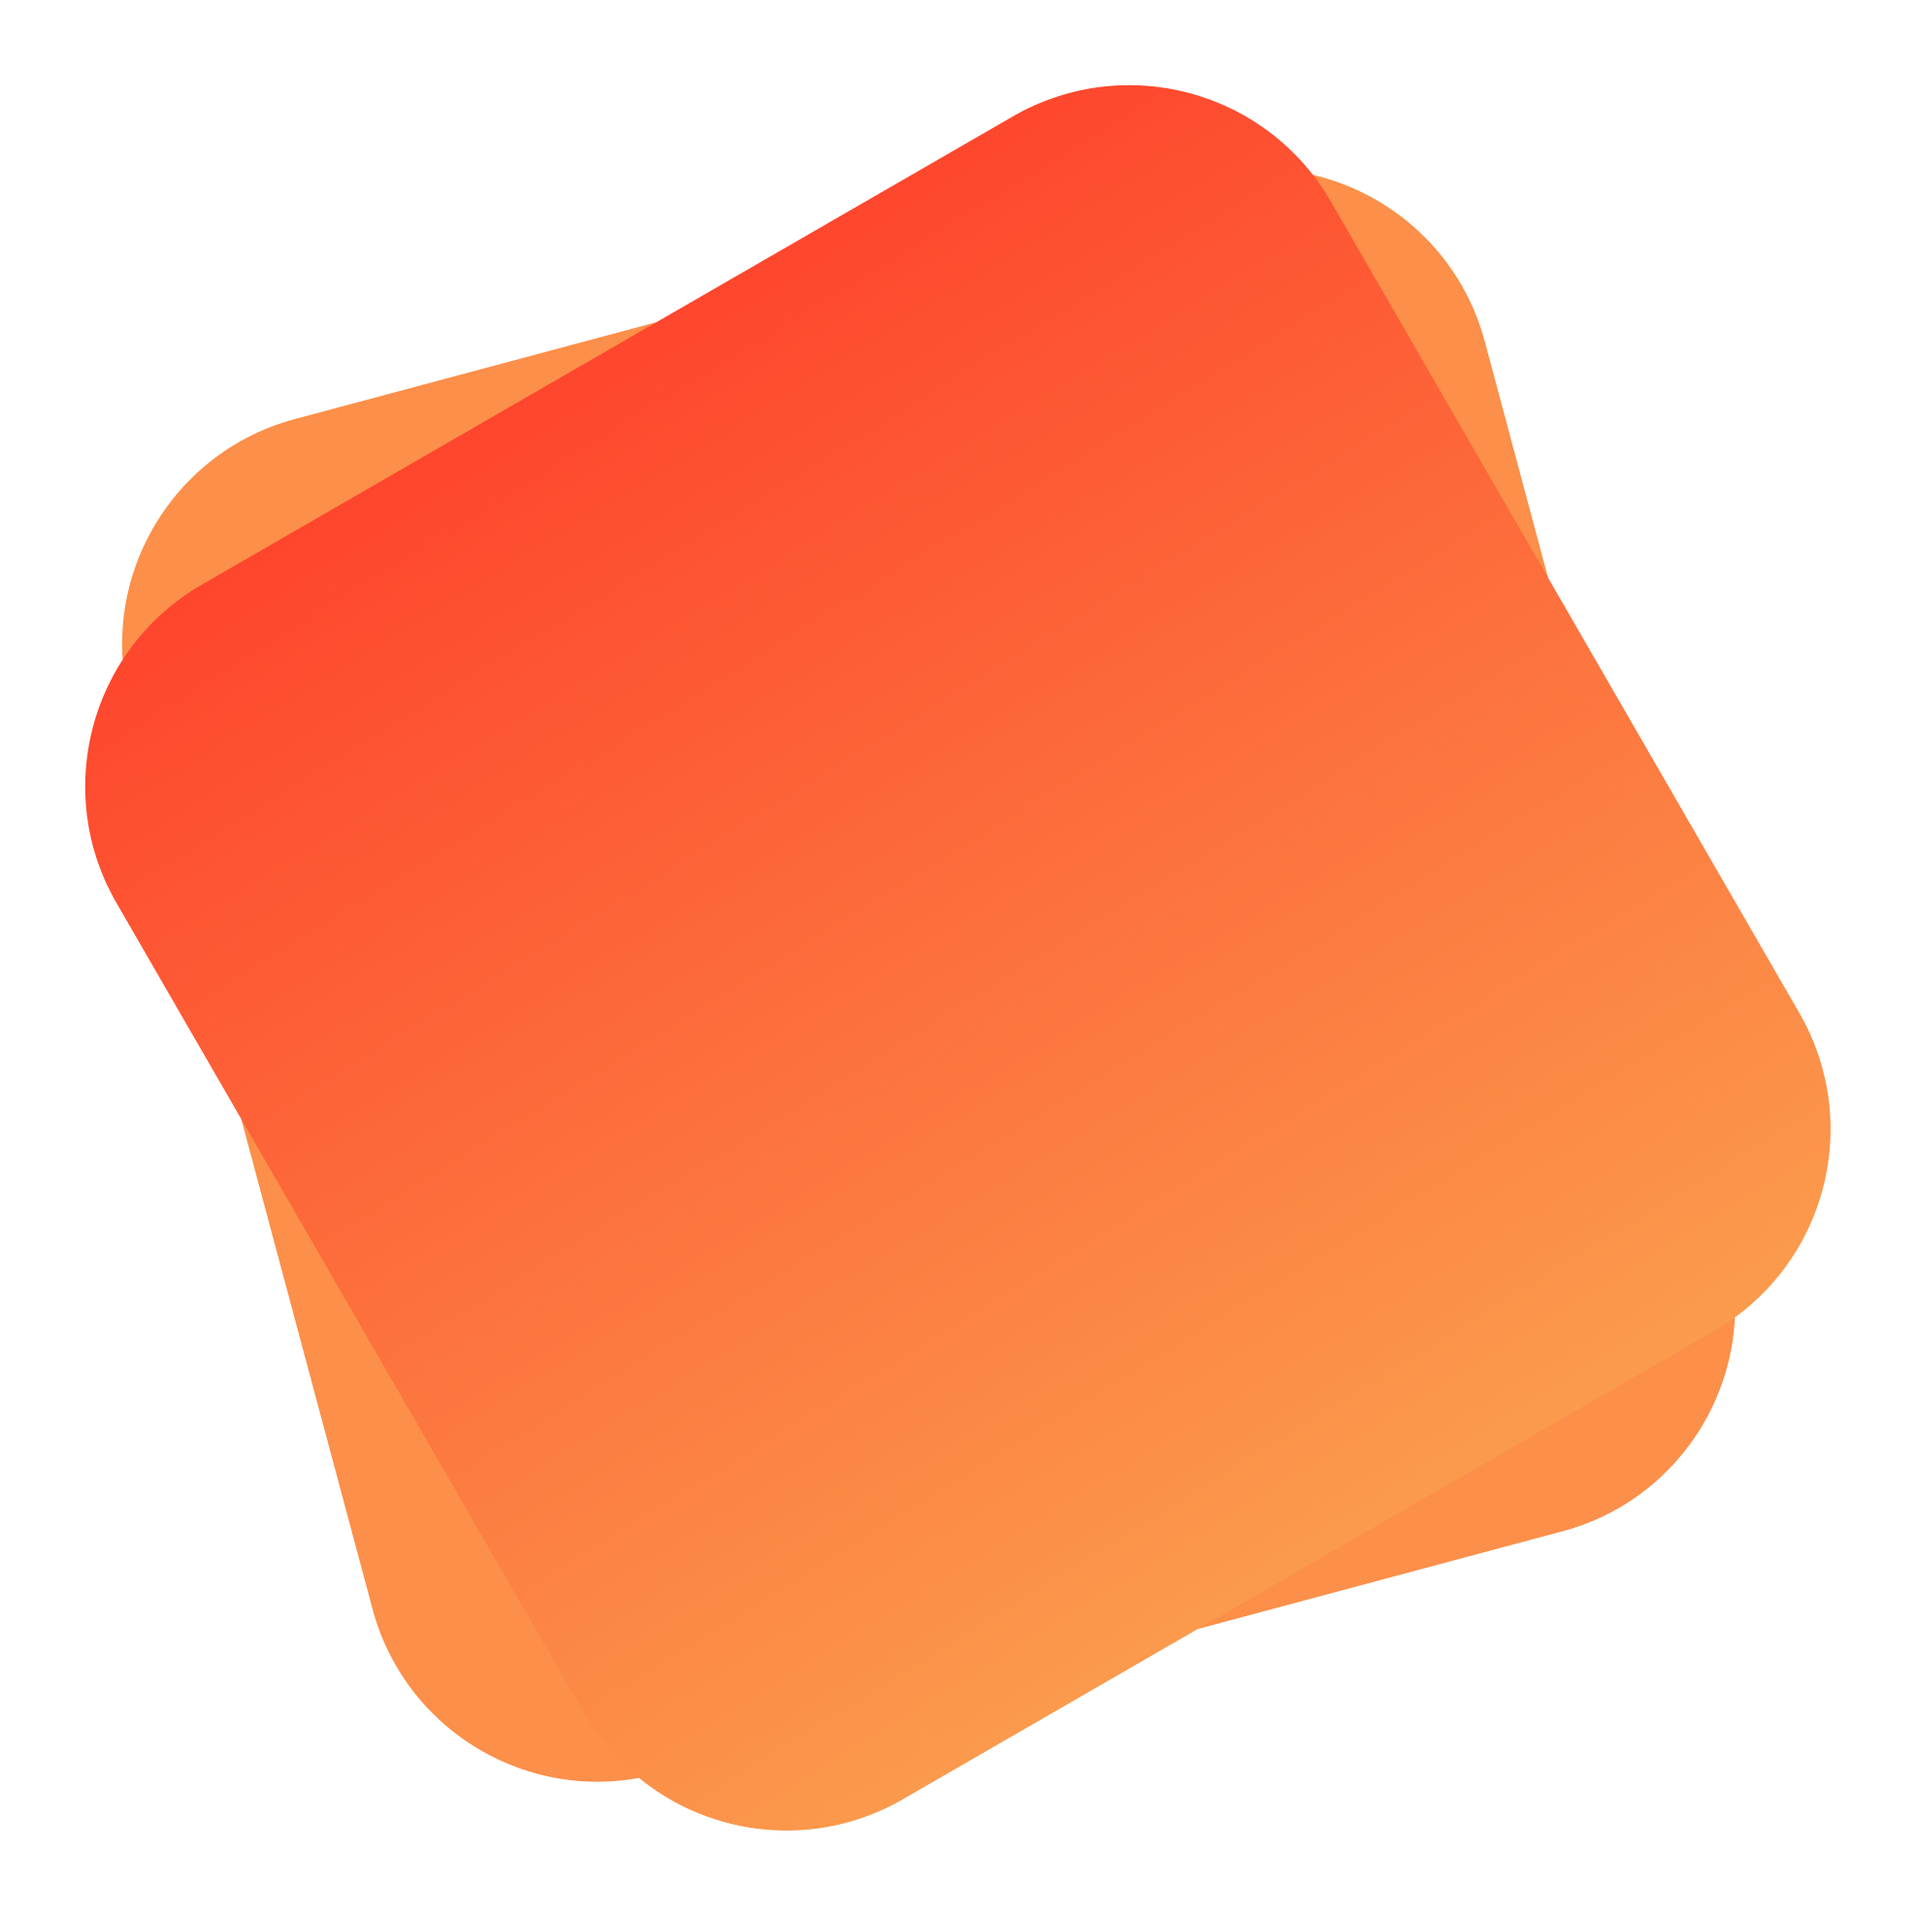
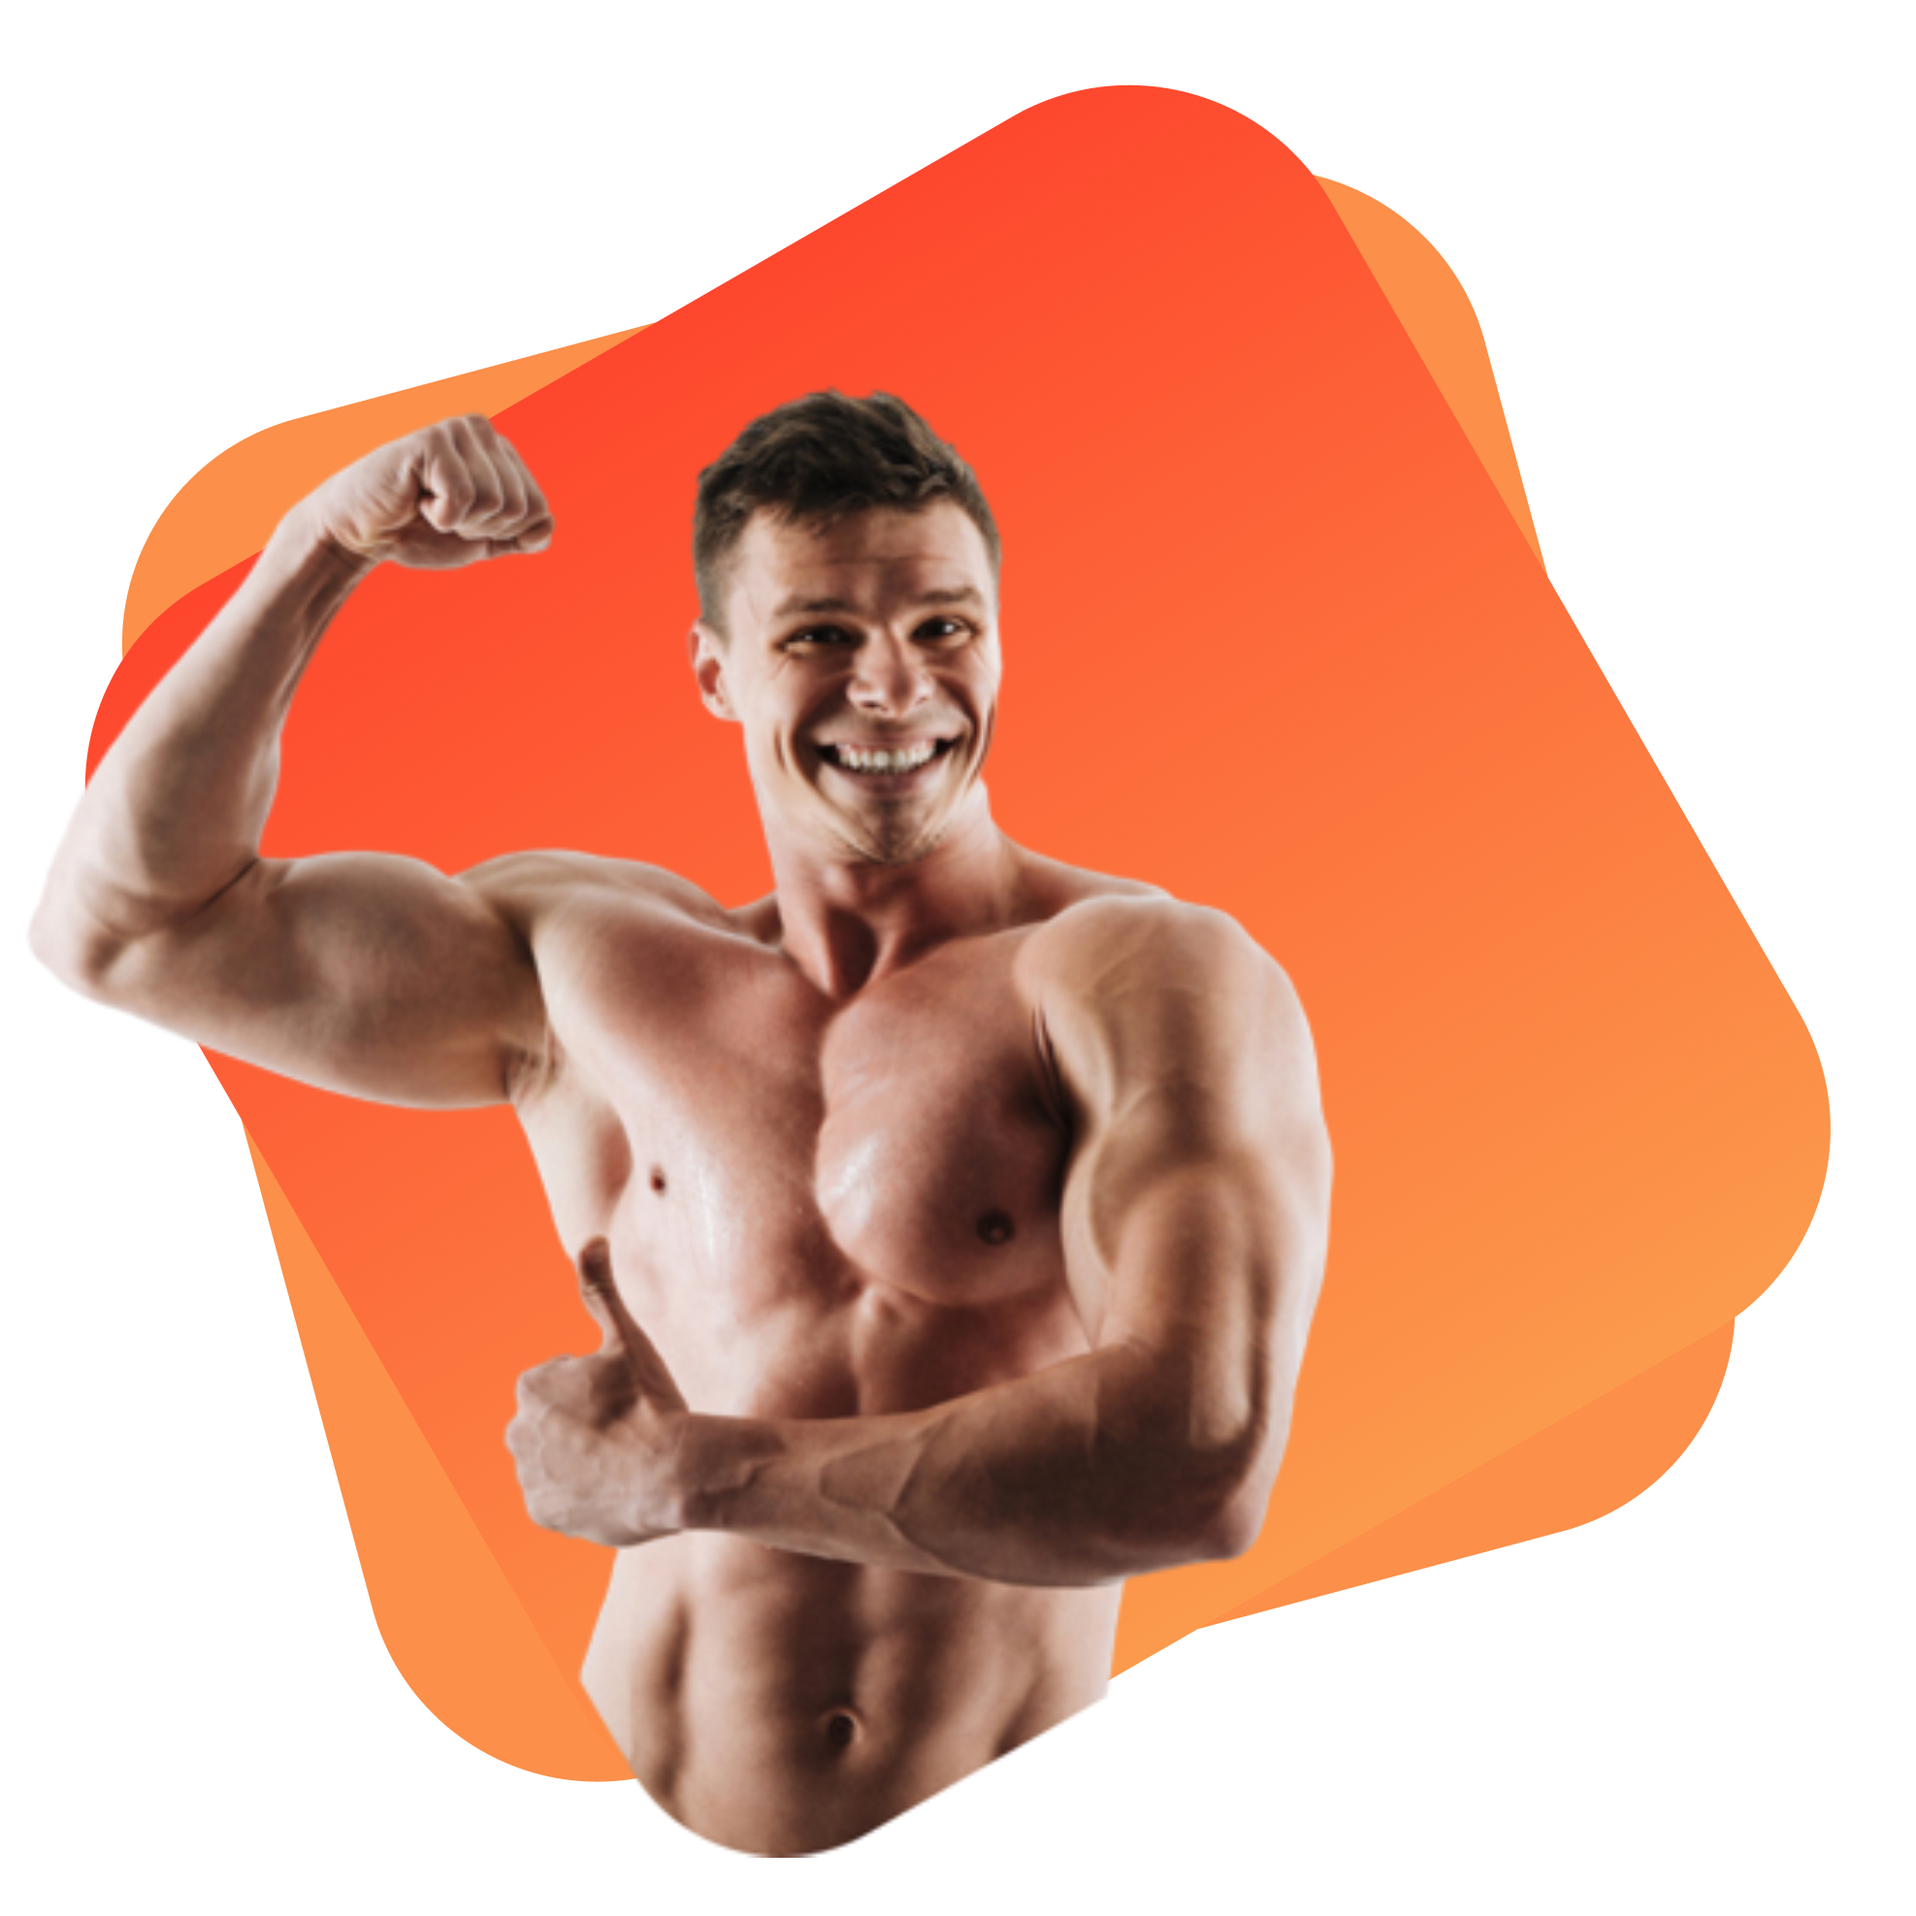
commit 3rd

Changed region(s): [[0.0, 0.1853, 0.7104, 0.9884]]

diff --git a/index.html b/index.html
@@ -13,10 +13,12 @@
 </head>
 
 <body>
-    <H1>Eat Healthy <br>With Stan's Fitness</H1>
+    <H1><span class="Orange-Color">Eat Healthy</span> <br>With Stan's Fitness</H1>
+    <h3>Stan The Body Builder</h3>
     <p>Stan Fitness Assure You With 100% Gurantee of Success .No Unnecessary Pills , Wight liftings etc. .All You Need
         Is A Perfect Diet . Don's Worry We Are Here To Help You !! . It's not a short time Diet . It's A Long Time Life
         Change</p>
+    <img src="images/Group 8450.png" alt="1st pic">
 
 </body>
 

diff --git a/style.css b/style.css
@@ -5,3 +5,7 @@ body {
 h1 {
     font-size: 50px;
 }
+
+.Orange-Color {
+    color: orange;
+}
